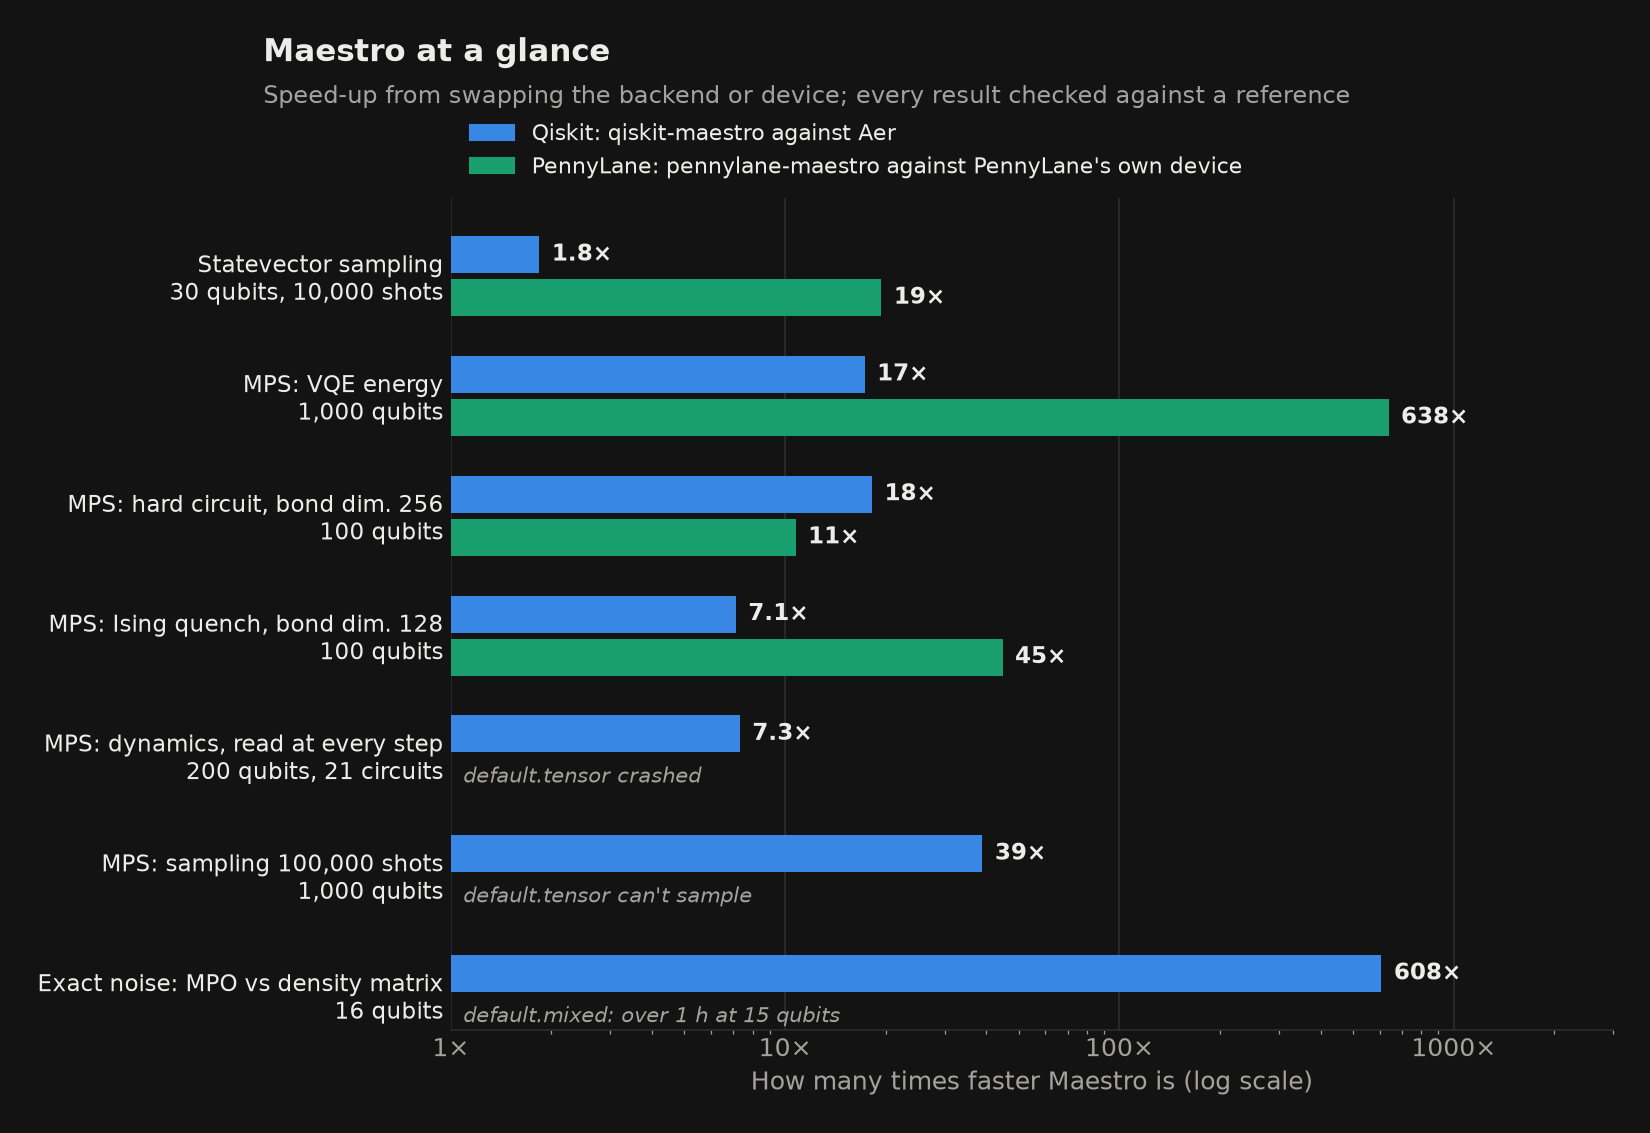
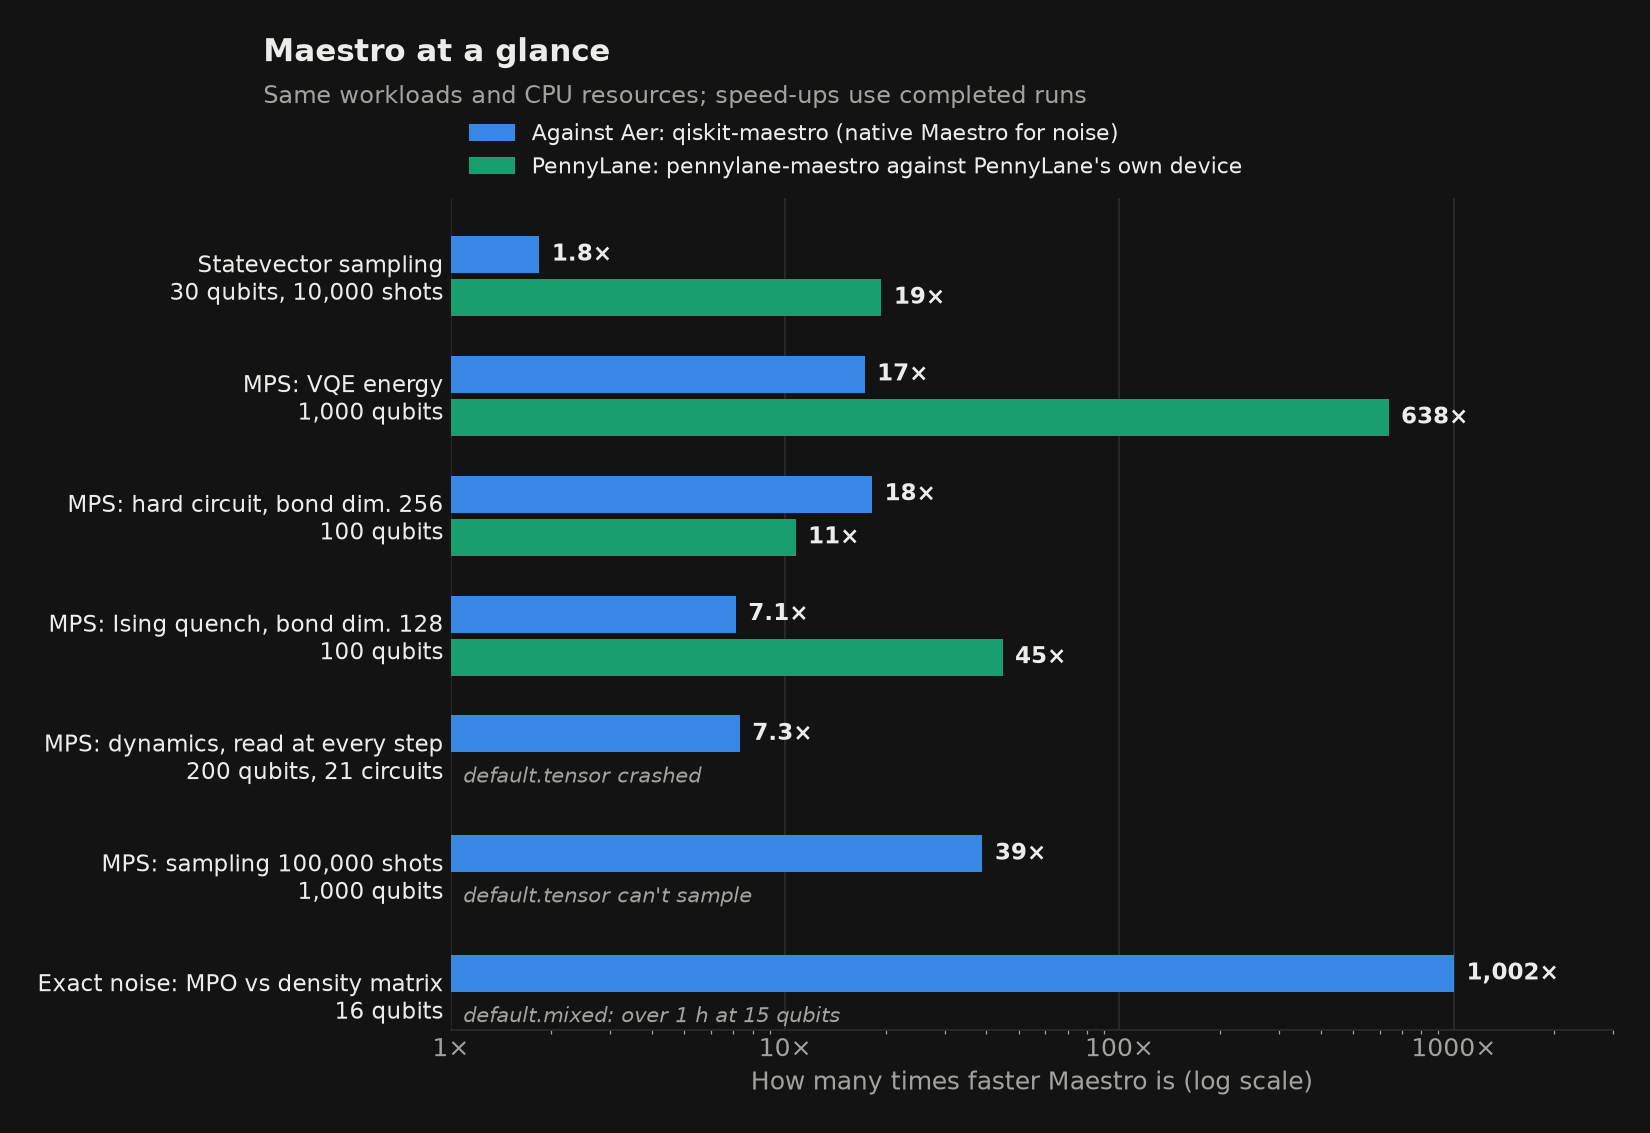
docs: update benchmark results and images

Changed region(s): [[0.1545, 0.0618, 0.8036, 0.1236], [0.8345, 0.8341, 0.9582, 0.8959]]

diff --git a/docs/sphinx/benchmarks.md b/docs/sphinx/benchmarks.md
@@ -8,12 +8,12 @@ the same bond-dimension cap, and the same number of CPU threads.
 
 ```{image} _static/benchmarks/overview.png
 :class: only-light
-:alt: Bar chart of Maestro's speed-up for seven workloads. Against Qiskit Aer it ranges from 1.8 times for statevector sampling to 608 times for exact noisy simulation; against PennyLane's own devices from 11 to 638 times.
+:alt: Bar chart of Maestro's speed-up for seven workloads. Against Qiskit Aer it ranges from 1.8 times for statevector sampling to 1,002 times for exact noisy simulation; against PennyLane's own devices from 11 to 638 times.
 ```
 
 ```{image} _static/benchmarks/overview-dark.png
 :class: only-dark
-:alt: Bar chart of Maestro's speed-up for seven workloads. Against Qiskit Aer it ranges from 1.8 times for statevector sampling to 608 times for exact noisy simulation; against PennyLane's own devices from 11 to 638 times.
+:alt: Bar chart of Maestro's speed-up for seven workloads. Against Qiskit Aer it ranges from 1.8 times for statevector sampling to 1,002 times for exact noisy simulation; against PennyLane's own devices from 11 to 638 times.
 ```
 
 Each bar is the competitor's time divided by Maestro's, at the largest size
@@ -278,12 +278,12 @@ faster than Aer.
 
 ```{image} _static/benchmarks/noise_mpo.png
 :class: only-light
-:alt: Time against qubits for exact noisy simulation. Density matrices stop at 15 to 16 qubits (out of memory, or over an hour for default.mixed); Maestro's MPO takes under a second at 16 qubits and 6.5 s at 100.
+:alt: Time against qubits for exact noisy simulation. Aer's and Maestro's density matrices both run out of memory at 17 qubits, and default.mixed passes an hour at 15; Maestro's MPO takes 0.4 s at 16 qubits and 3.9 s at 100.
 ```
 
 ```{image} _static/benchmarks/noise_mpo-dark.png
 :class: only-dark
-:alt: Time against qubits for exact noisy simulation. Density matrices stop at 15 to 16 qubits (out of memory, or over an hour for default.mixed); Maestro's MPO takes under a second at 16 qubits and 6.5 s at 100.
+:alt: Time against qubits for exact noisy simulation. Aer's and Maestro's density matrices both run out of memory at 17 qubits, and default.mixed passes an hour at 15; Maestro's MPO takes 0.4 s at 16 qubits and 3.9 s at 100.
 ```
 
 A depth-6 random brickwork with amplitude damping (γ = 10⁻³) and depolarizing
@@ -294,26 +294,28 @@ state and keeps going:
 
 | Qubits | Aer density matrix | Maestro density matrix | `default.mixed` | Maestro MPO | MPO against Aer |
 |---:|---:|---:|---:|---:|---:|
-| 15 | 93 s, 16 GB | 621 s, 64 GB | over 1 h | 0.60 s | 3 × 10⁻⁶ |
-| 16 | 404 s, 64 GB | out of memory | not run | 0.67 s | 2 × 10⁻⁶ |
-| 17 | out of memory | not run | not run | 0.68 s | no reference |
-| 50 | not run | not run | not run | 3.2 s | no reference |
-| 100 | not run | not run | not run | 6.5 s | no reference |
+| 15 | 93 s, 16 GB | 117 s, 16 GB | over 1 h | 0.37 s | 2 × 10⁻⁶ |
+| 16 | 404 s, 64 GB | 502 s, 64 GB | not run | 0.40 s | 1 × 10⁻⁶ |
+| 17 | out of memory | out of memory | not run | 0.41 s | no reference |
+| 50 | not run | not run | not run | 2.0 s | no reference |
+| 100 | not run | not run | not run | 3.9 s | no reference |
 
 Once a simulator runs out of memory or time, larger sizes are not run for it.
 The last column is the largest difference in any ⟨Z⟩ between the MPO, with
-its bond dimension capped at 128, and Aer's exact density matrix.
+its bond dimension capped at 128, and Aer's exact density matrix. On a
+10-step Trotter circuit with the same noise, Maestro's density matrix is the
+faster one: 260 s against Aer's 309 s at 15 qubits.
 
 ### Exact MPO against trajectories
 
 ```{image} _static/benchmarks/noise_time_to_accuracy.png
 :class: only-light
-:alt: Time to get every expectation value within 0.001 of the exact answer. Maestro's MPO takes 0.87 to 3.1 s in all four cases; Aer's MPS trajectories take 1.9 s to 14 minutes.
+:alt: Time to get every expectation value within 0.001 of the exact answer. Maestro's MPO takes 0.53 to 1.9 s in all four cases; Aer's MPS trajectories take 1.9 s to 14 minutes, and Maestro's 2.4 to 11 s.
 ```
 
 ```{image} _static/benchmarks/noise_time_to_accuracy-dark.png
 :class: only-dark
-:alt: Time to get every expectation value within 0.001 of the exact answer. Maestro's MPO takes 0.87 to 3.1 s in all four cases; Aer's MPS trajectories take 1.9 s to 14 minutes.
+:alt: Time to get every expectation value within 0.001 of the exact answer. Maestro's MPO takes 0.53 to 1.9 s in all four cases; Aer's MPS trajectories take 1.9 s to 14 minutes, and Maestro's 2.4 to 11 s.
 ```
 
 The usual alternative to a density matrix is to average many noisy pure-state
@@ -323,26 +325,27 @@ absolute error) of a bond-dimension-512 MPO. At 10⁻⁴:
 
 | Noise, qubits | Maestro MPO | Aer MPS trajectories | Maestro MPS trajectories |
 |---|---:|---:|---:|
-| Depolarizing, 20 | 0.87 s | 185 s | 299 s |
-| Depolarizing, 50 | 3.0 s | 430 s | 692 s |
-| Depolarizing and damping, 20 | 0.87 s | about 3.8 h (extrapolated) | not run |
-| Depolarizing and damping, 50 | 3.1 s | about 17 h (extrapolated) | not run |
+| Depolarizing, 20 | 0.53 s | 185 s | 258 s |
+| Depolarizing, 50 | 1.9 s | 430 s | 663 s |
+| Depolarizing and damping, 20 | 0.54 s | about 3.8 h (extrapolated) | 523 s |
+| Depolarizing and damping, 50 | 1.9 s | about 17 h (extrapolated) | 1,530 s |
 
 Extrapolated times assume the error keeps falling as one over the square root
 of the number of trajectories; the runs themselves stopped at the 1-hour limit.
-Maestro's trajectories ran with depolarizing noise only, because its pure-state
-amplitude damping is a reset approximation.
+With amplitude damping, Maestro's trajectories sample the damping channel
+exactly and reach 10⁻⁴ 26 and 40 times sooner than Aer's. With depolarizing
+noise alone, Aer's trajectories are 1.4 to 1.5 times faster.
 
 ### Noisy shot sampling
 
 ```{image} _static/benchmarks/noise_sampling.png
 :class: only-light
-:alt: Time to draw 1,000,000 noisy shots at 20, 32 and 50 qubits. Maestro's MPO takes 14, 38 and 68 seconds; Aer's MPS takes 831 and 2,032 seconds at 20 and 32 qubits and passes one hour at 50.
+:alt: Time to draw 1,000,000 noisy shots at 20, 32 and 50 qubits. Maestro's MPO takes 17, 54 and 159 seconds; Aer's MPS takes 831 and 2,032 seconds at 20 and 32 qubits and passes one hour at 50.
 ```
 
 ```{image} _static/benchmarks/noise_sampling-dark.png
 :class: only-dark
-:alt: Time to draw 1,000,000 noisy shots at 20, 32 and 50 qubits. Maestro's MPO takes 14, 38 and 68 seconds; Aer's MPS takes 831 and 2,032 seconds at 20 and 32 qubits and passes one hour at 50.
+:alt: Time to draw 1,000,000 noisy shots at 20, 32 and 50 qubits. Maestro's MPO takes 17, 54 and 159 seconds; Aer's MPS takes 831 and 2,032 seconds at 20 and 32 qubits and passes one hour at 50.
 ```
 
 Sampling shots from a noisy circuit: depolarizing noise (10⁻³ on one qubit,
@@ -352,17 +355,17 @@ two (MPS and statevector):
 
 | Qubits | Shots | Aer MPS | Maestro MPS | Maestro MPO | MPO against Aer MPS |
 |---:|---:|---:|---:|---:|---:|
-| 20 | 10,000 | 8.1 s | 1.9 s | 0.76 s | 11× |
-| 20 | 1,000,000 | 831 s | 218 s | 14 s | 60× |
-| 32 | 10,000 | 20 s | 3.3 s | 1.6 s | 13× |
-| 32 | 1,000,000 | 2,032 s | 368 s | 38 s | 53× |
-| 50 | 10,000 | 49 s | 5.4 s | 2.8 s | 17× |
-| 50 | 100,000 | 491 s | 55 s | 8.7 s | 56× |
-| 50 | 1,000,000 | over 1 h | 613 s | 68 s | over 50× |
+| 20 | 10,000 | 8.1 s | 2.0 s | 0.51 s | 16× |
+| 20 | 1,000,000 | 831 s | 225 s | 17 s | 50× |
+| 32 | 10,000 | 20 s | 3.4 s | 1.2 s | 17× |
+| 32 | 1,000,000 | 2,032 s | 377 s | 54 s | 38× |
+| 50 | 10,000 | 49 s | 5.6 s | 2.7 s | 18× |
+| 50 | 100,000 | 491 s | 56 s | 17 s | 29× |
+| 50 | 1,000,000 | over 1 h | 612 s | 159 s | over 22× |
 
 Maestro's MPS is 4 to 9 times faster than Aer's. On statevectors, at 20 qubits
-and 10,000 shots, Maestro took 127 s against Aer's 615 s. At 100,000 shots
-Aer's statevector passed the 1-hour limit while Maestro's took 1,270 s. At 32
+and 10,000 shots, Maestro took 269 s against Aer's 615 s. At 100,000 shots
+Aer's statevector passed the 1-hour limit while Maestro's took 2,650 s. At 32
 qubits Aer's statevector failed with `No counts for experiment "0"` and
 Maestro's passed 1 hour.
 
@@ -424,15 +427,15 @@ threshold, limited its accuracy there. Its best error was 0.043.
 - **Memory in parameter sweeps.** `qiskit-maestro` runs one circuit per
   thread, so a 28-qubit sweep peaked at 60 GB against Aer's 4 GB. It is also
   the reason it is 3× faster.
-- **Maestro's own density matrix** is 5 to 7 times slower than Aer's and uses
-  four times the memory, running out at 16 qubits. Use the MPO for exact noisy
+- **Maestro's own density matrix** is 1.25 times slower than Aer's on the
+  noisy brickwork (117 s against 93 s at 15 qubits), with the same memory, though
+  1.2 times faster on the Trotter circuit. Use the MPO for exact noisy
   simulation instead.
-- **MPS trajectories.** With depolarizing noise, Maestro's MPS trajectories are
-  1.2 to 1.6 times slower than Aer's. Its statevector trajectories are about 3
-  times faster.
+- **MPS trajectories with depolarizing noise only.** Aer's are 1.4 to 1.5 times
+  faster. With amplitude damping, Maestro's are 26 to 40 times faster, and its
+  statevector trajectories are about twice as fast as Aer's.
 - **Loose accuracy with depolarizing noise.** If an error of 10⁻² is enough,
-  trajectories (0.03 to 0.09 s) beat the exact MPO (0.3 to 3 s). With
-  amplitude damping as well, the MPO is faster at every accuracy.
+  trajectories (0.03 to 0.08 s) beat the exact MPO (0.2 to 1.9 s).
 - **Pauli propagation on hard angles.** At θ = π/4 on the 28-qubit chain,
   Maestro and `pauli-prop` are about level: neither converges in an hour.
 - **Shallow circuits with the shortcuts off.** Aer is 2× faster on the
@@ -447,7 +450,12 @@ threshold, limited its accuracy there. Its best error was 0.043.
   check workload to within 4%. CPU only.
 - **Software.** Python 3.12.16, Qiskit 2.6.2, Qiskit Aer 0.18.2, PennyLane
   0.45.1, PennyLane Lightning 0.45.0, quimb 1.15.0, qoro-maestro 0.3.14,
-  qiskit-maestro 0.1.0 and pennylane-maestro 0.6.0.
+  qiskit-maestro 0.1.0 and pennylane-maestro 0.6.0. The noise results use a
+  pre-release build of Maestro
+  [pull request #55](https://github.com/QoroQuantum/maestro/pull/55) (commit
+  `88de526`, with QCSim `b3c8945`), which samples noise channels exactly on
+  pure-state simulators. It runs the noiseless MPS workloads within 1% of
+  0.3.14.
 - **Timing.** The median of five runs after a warm-up run (three runs for a
   case over 60 s, one over 300 s, and the warm-up alone over 900 s), timing the
   whole call, including circuit conversion. Each run had a 1-hour limit and a
